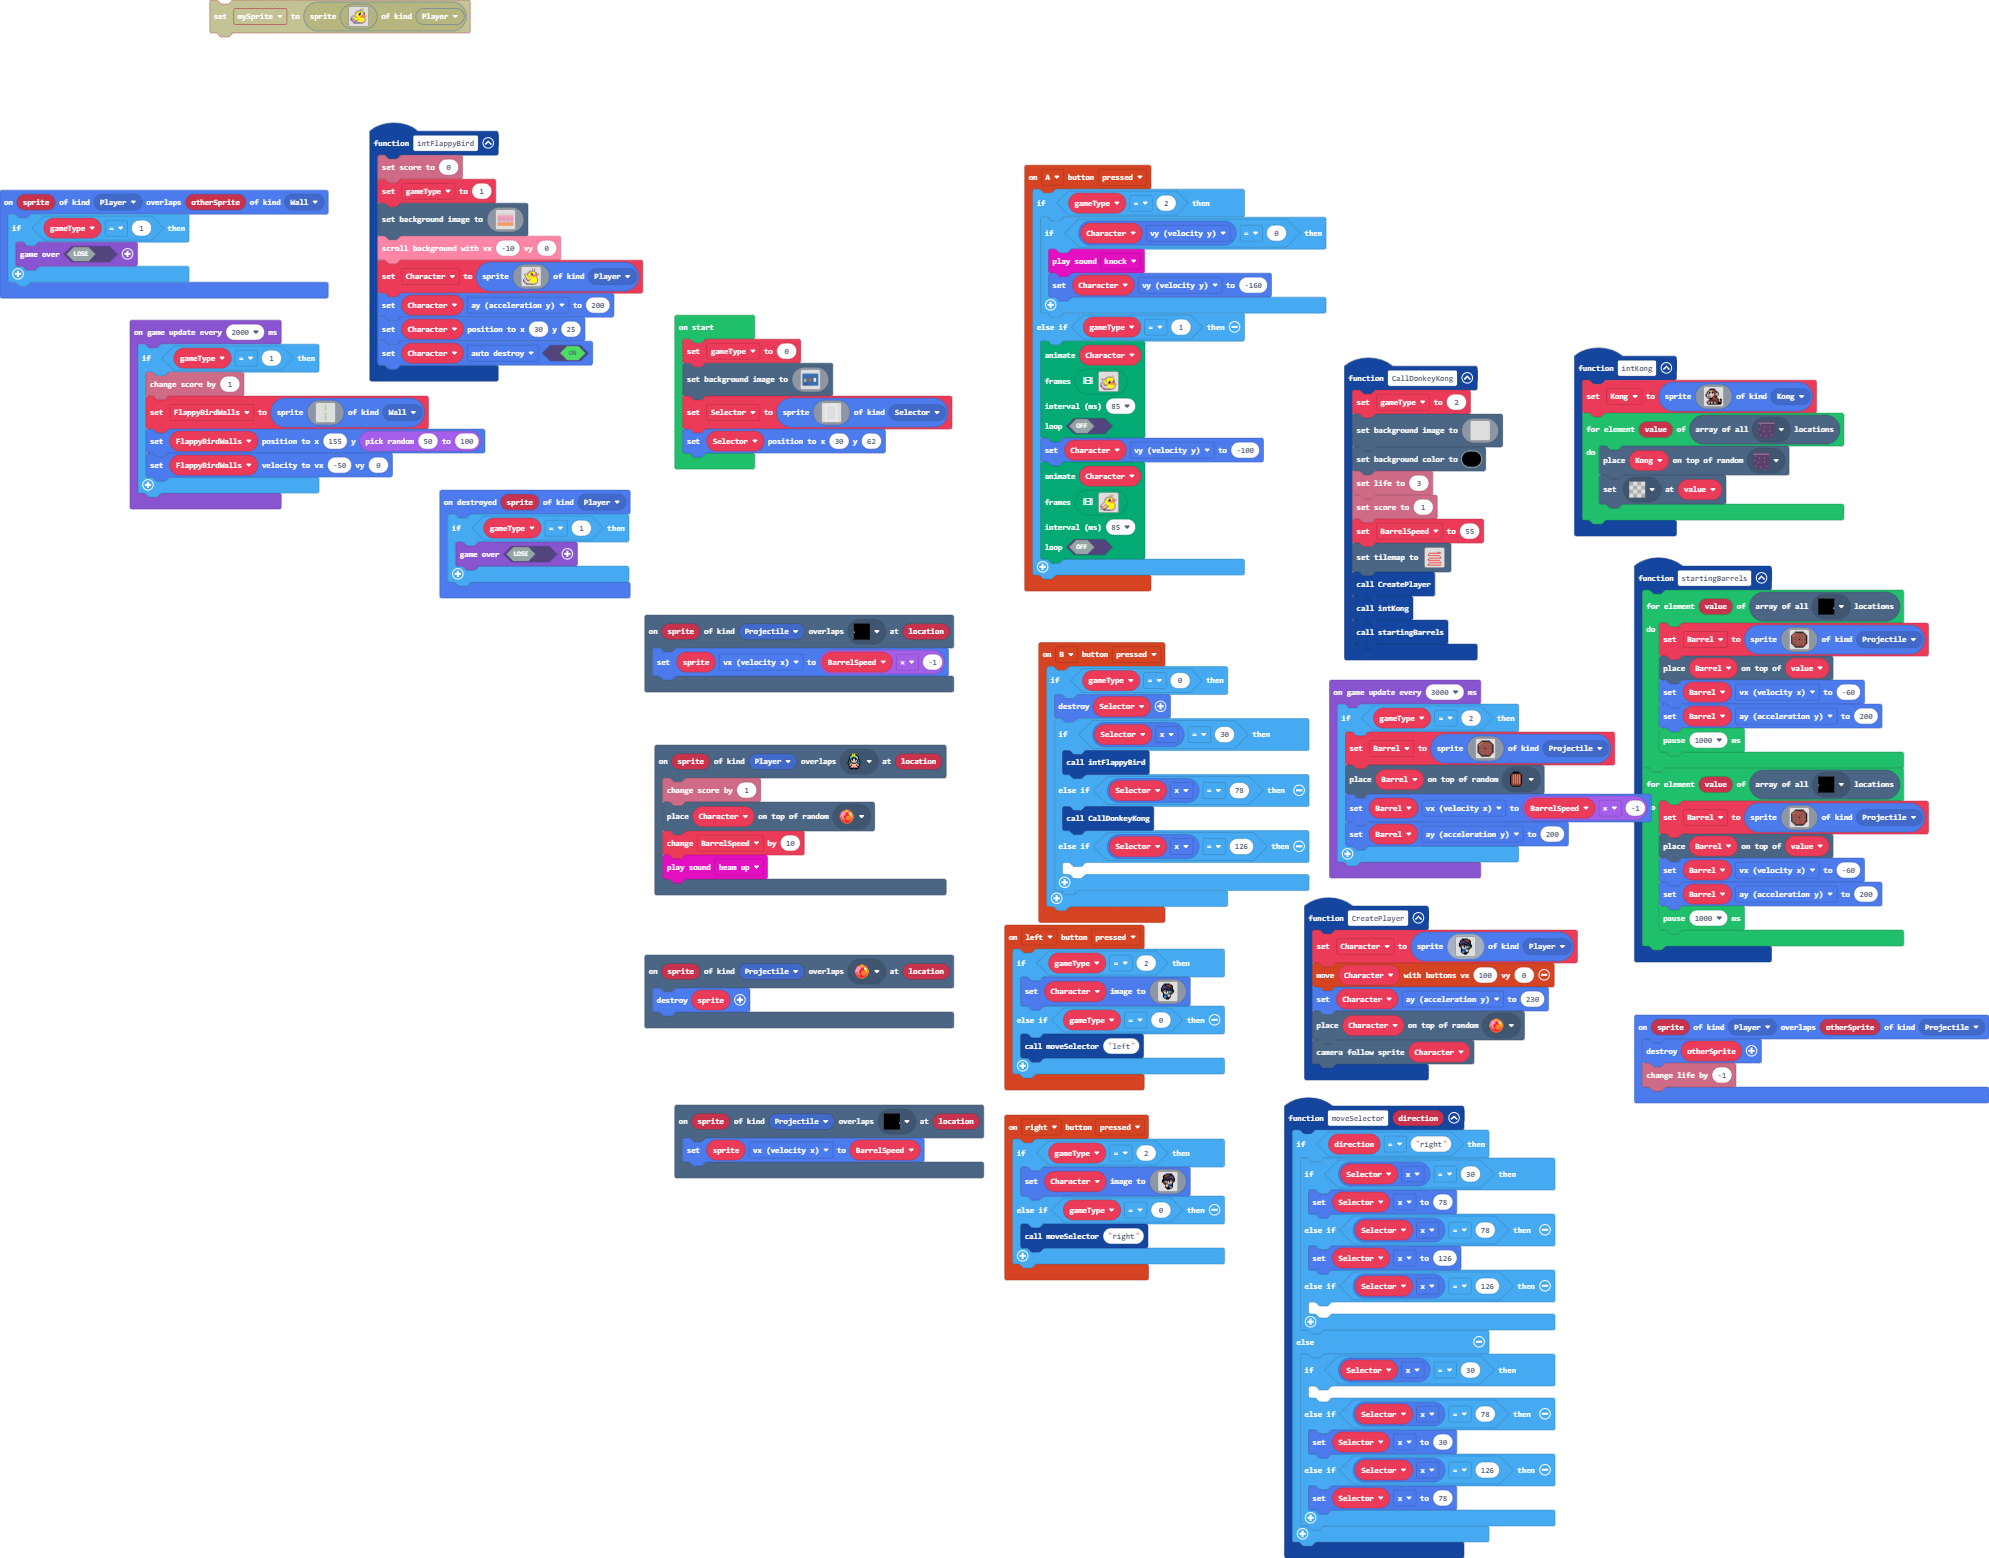
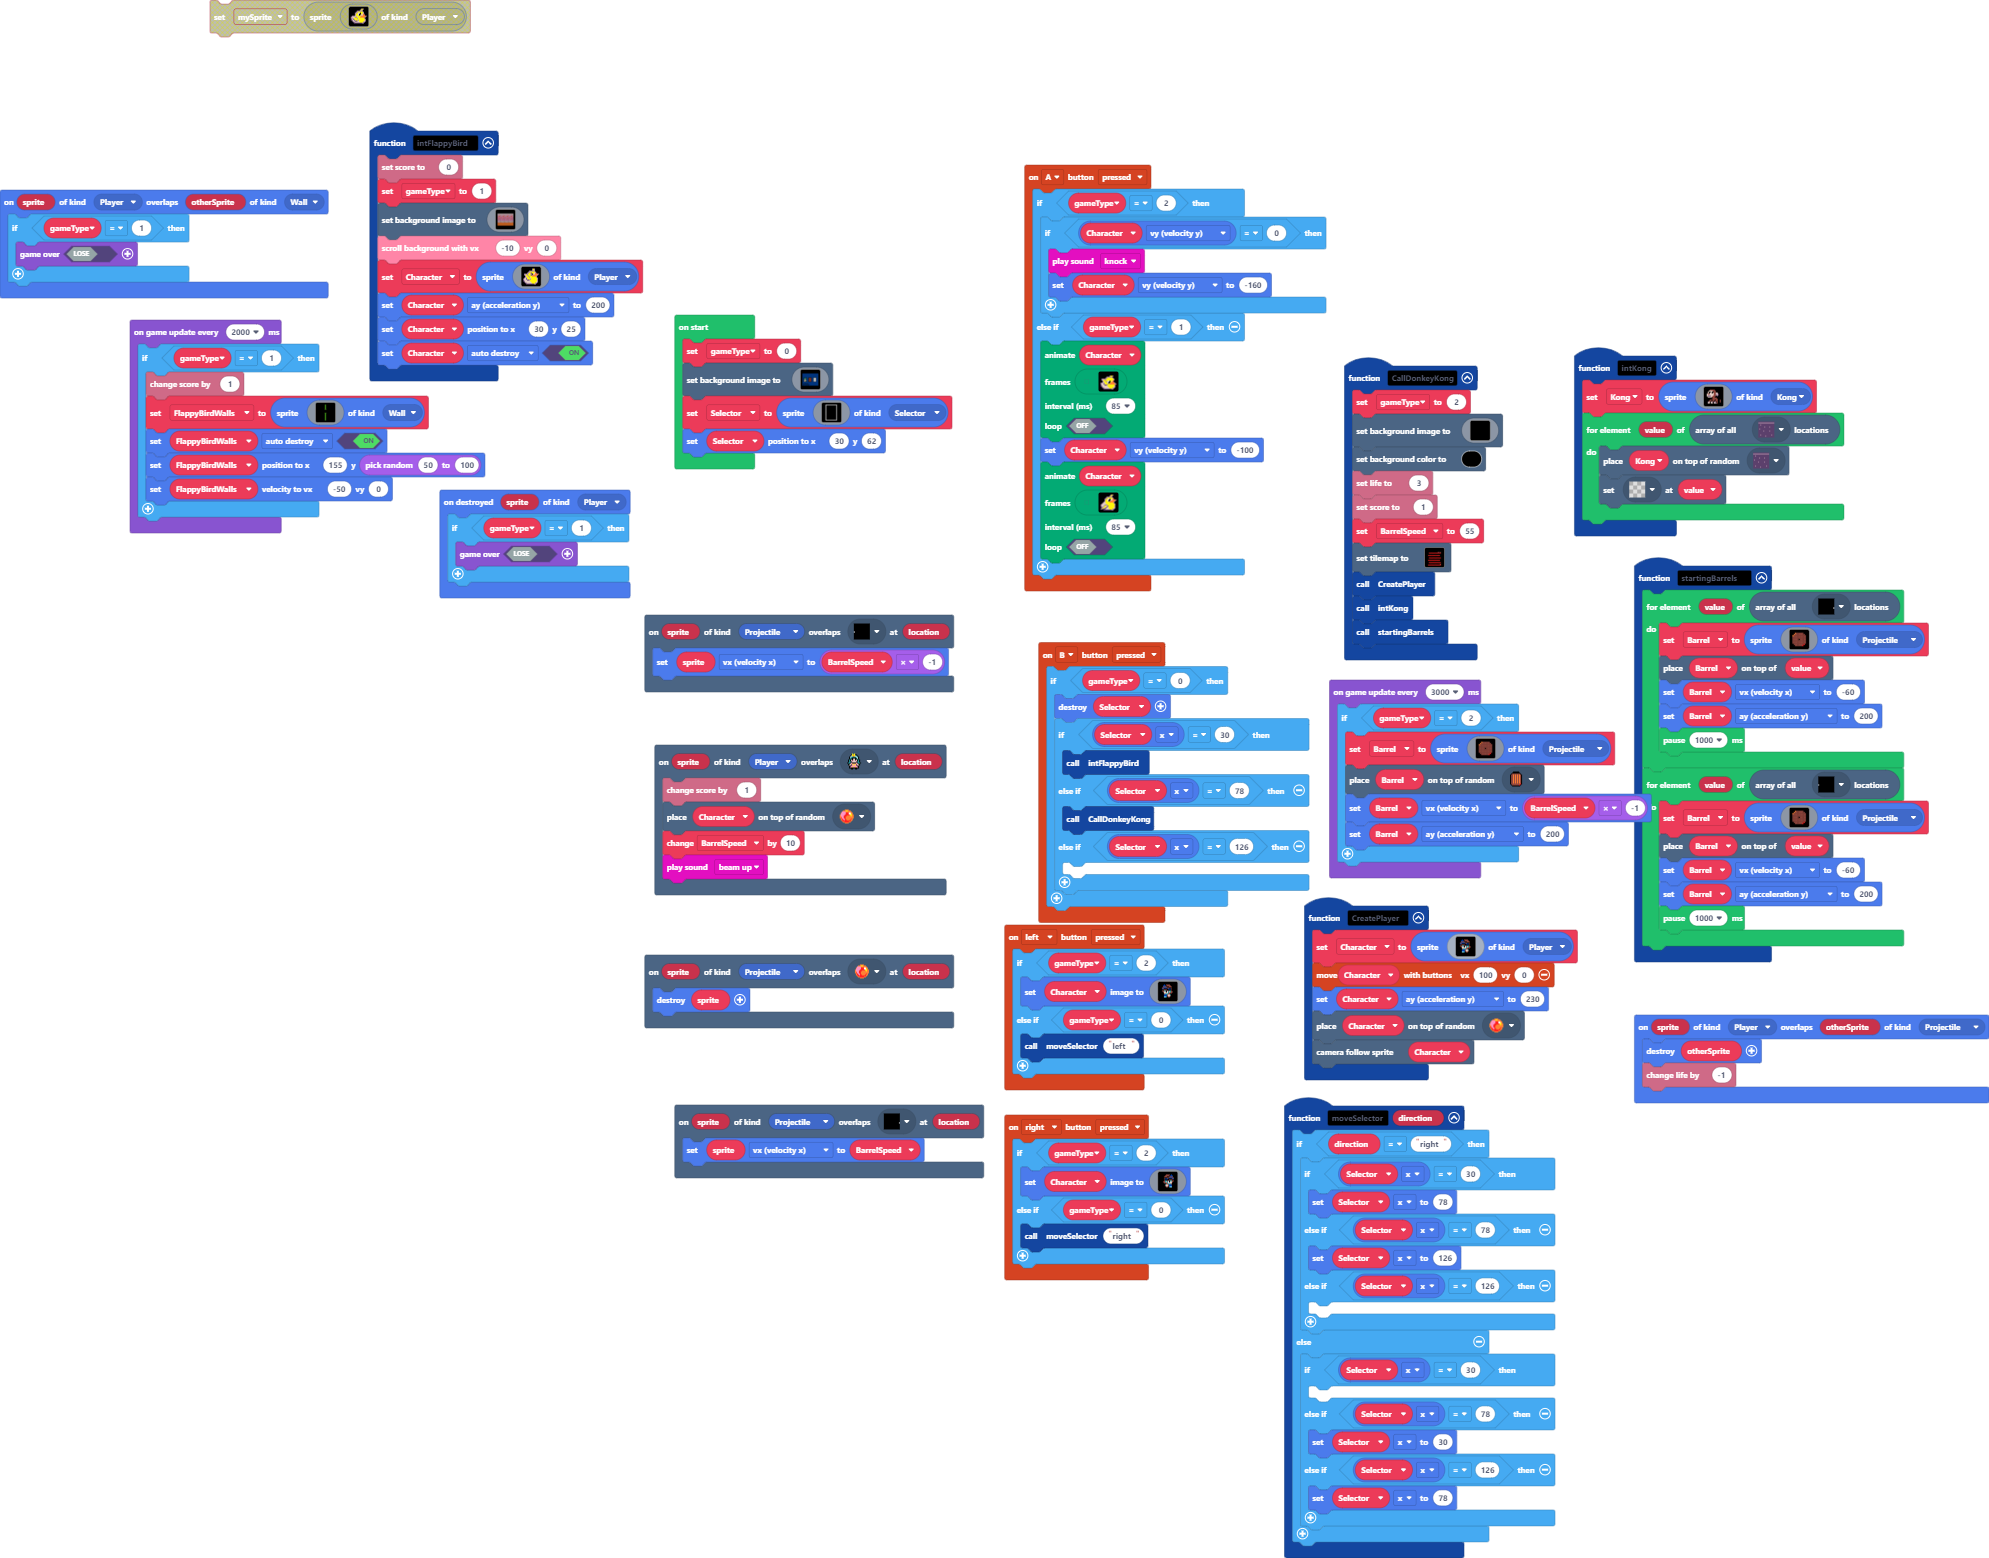
Fixed flappy bug.

diff --git a/main.ts b/main.ts
@@ -1062,6 +1062,7 @@ game.onUpdateInterval(2000, function () {
             .......f77777777777777f.......
             .......f77777777777777f.......
             `, SpriteKind.Wall)
+        FlappyBirdWalls.setFlag(SpriteFlag.AutoDestroy, true)
         FlappyBirdWalls.setPosition(155, randint(50, 100))
         FlappyBirdWalls.setVelocity(-50, 0)
     }
